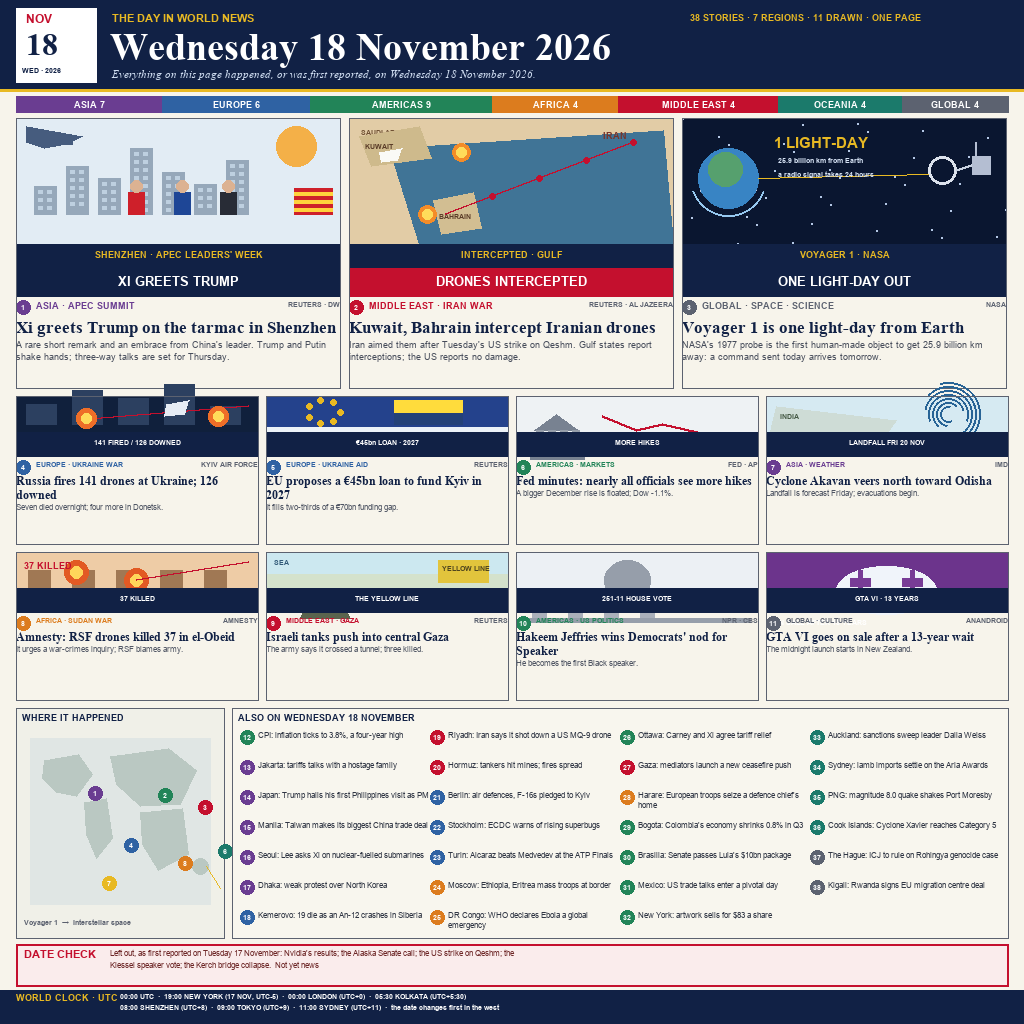
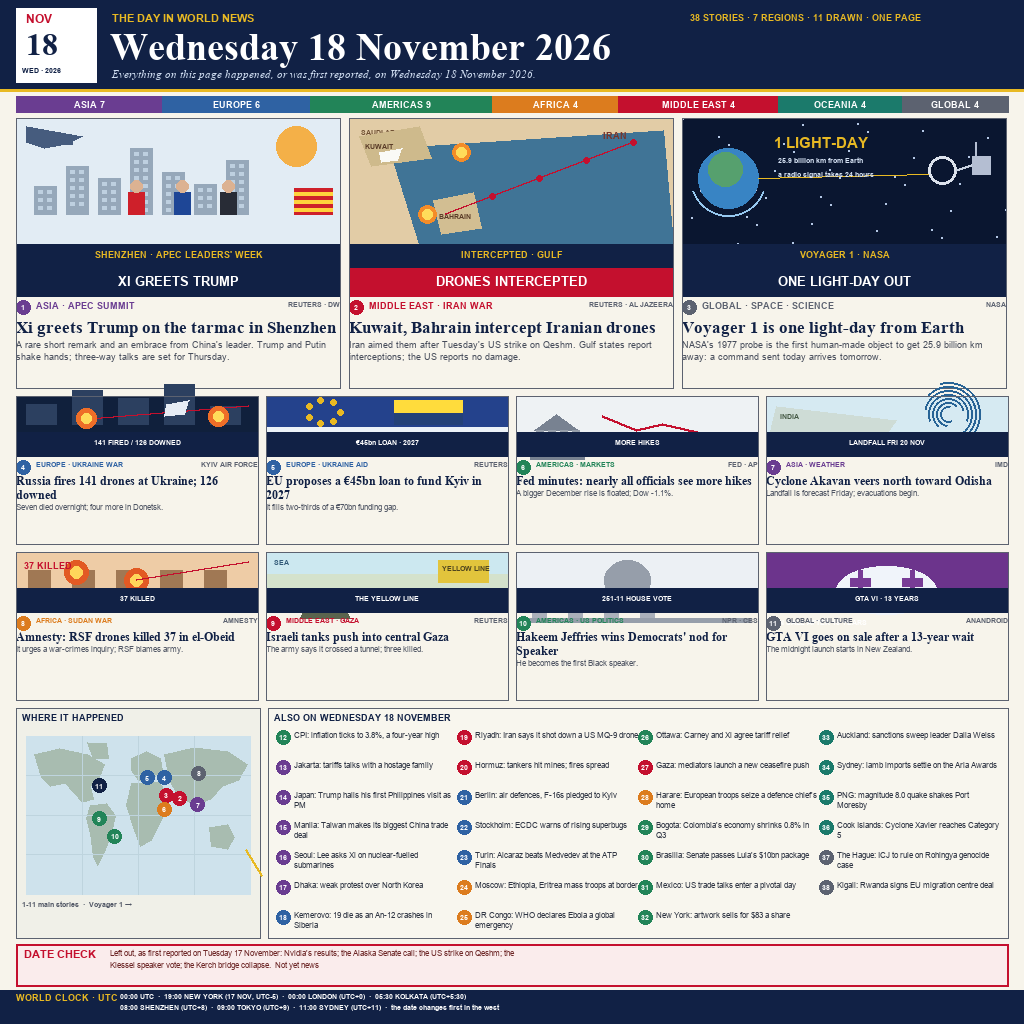
Clarify world map in poster

Changed region(s): [[0.0, 0.6875, 0.9688, 0.9062]]

diff --git a/render.py b/render.py
@@ -289,30 +289,44 @@ for j,(n,reg,tag,src,banner,head,cap,art) in enumerate(CARDS):
 
 # bottom: map + tiny stories
 MY=708
-d.rectangle([16,MY,224,938],fill=(240,240,232),outline=GRAY,width=1)
+d.rectangle([16,MY,260,938],fill=(240,240,232),outline=GRAY,width=1)
 txt(d,22,MY+4,"WHERE IT HAPPENED",F_SM,NAVY)
-# simplified world map
-d.rectangle([30,MY+30,210,MY+196],fill=(224,230,228))
-# continents as blobs
-d.polygon([(44,MY+52),(78,MY+46),(92,MY+66),(76,MY+88),(56,MY+84),(42,MY+70)],fill=(186,200,194))
-d.polygon([(84,MY+94),(106,MY+90),(112,MY+130),(96,MY+150),(86,MY+126)],fill=(186,200,194))
-d.polygon([(110,MY+48),(168,MY+40),(196,MY+62),(180,MY+96),(140,MY+98),(116,MY+76)],fill=(186,200,194))
-d.polygon([(140,MY+104),(182,MY+100),(188,MY+146),(158,MY+162),(142,MY+136)],fill=(186,200,194))
-d.ellipse([192,MY+150,208,MY+166],fill=(186,200,194))
-pts=[(60,60,GLOBAL if False else PURPLE,1),(96,112,BLUE,4),(130,62,GREEN,2),
-     (150,130,ORANGE,8),(170,74,RED,3),(190,118,TEAL,6),(74,150,GOLD,7)]
-for px,py,col,n in pts: badge(d,28+px,MY+18+py,n,col)
-d.line([(206,MY+158),(220,MY+180)],fill=GOLD,width=1)
-txt(d,24,MY+210,"Voyager 1  →  Interstellar space",F_MICRO,(90,96,110))
+# recognisable equirectangular world map
+MX,MY0,MW,MH = 26, MY+28, 224, 158
+d.rectangle([MX,MY0,MX+MW,MY0+MH],fill=(206,226,236))
+def mp(px,py): return (MX+px*1.12, MY0+py*1.58)
+continents=[
+ [(8,12),(30,8),(55,12),(70,18),(65,28),(58,32),(60,40),(50,42),(42,36),(35,30),(22,32),(14,26)],
+ [(58,44),(72,43),(80,50),(76,62),(70,74),(64,82),(60,76),(58,62),(54,52)],
+ [(55,4),(72,5),(74,14),(60,15)],
+ [(94,14),(108,10),(120,14),(122,22),(112,28),(100,28),(94,22)],
+ [(94,30),(118,29),(128,38),(122,52),(112,66),(102,70),(96,58),(90,44)],
+ [(124,12),(150,7),(180,10),(198,18),(190,28),(175,32),(165,40),(150,44),(136,38),(128,28)],
+ [(164,58),(180,56),(186,64),(180,72),(166,70)],
+]
+for poly in continents:
+    d.polygon([mp(px,py) for px,py in poly],fill=(168,188,176))
+# graticule
+for gx in range(50,200,50):
+    a=mp(gx,0); b=mp(gx,100); d.line([a,b],fill=(190,212,222),width=1)
+for gy in range(25,100,25):
+    a=mp(0,gy); b=mp(200,gy); d.line([a,b],fill=(190,212,222),width=1)
+pts=[(59,27,NAVY,1),(131,35,RED,2),(119,33,RED,3),(117,22,BLUE,4),
+     (102,22,BLUE,5),(117,42,ORANGE,6),(147,39,PURPLE,7),(148,19,GRAY,8),
+     (59,48,GREEN,9),(73,59,GREEN,10),(59,27,NAVY,11)]
+for px,py,col,n in pts:
+    x,y=mp(px,py); badge(d,x,y,n,col)
+d.line([mp(196,72),mp(210,88)],fill=GOLD,width=2)
+txt(d,22,MY+192,"1-11 main stories  ·  Voyager 1 →",F_MICRO,(80,86,100))
 
-d.rectangle([232,MY,1008,938],fill=(248,246,238),outline=GRAY,width=1)
-txt(d,238,MY+4,"ALSO ON WEDNESDAY 18 NOVEMBER",F_SM,NAVY)
+d.rectangle([268,MY,1008,938],fill=(248,246,238),outline=GRAY,width=1)
+txt(d,274,MY+4,"ALSO ON WEDNESDAY 18 NOVEMBER",F_SM,NAVY)
 cols=4; per=7
-cw=(776-16)//4
+cw=(740-16)//4
 for k,(n,reg,head) in enumerate(TINY):
     c=k//per; r=k%per
     if c>=cols: break
-    x=240+c*cw; y=MY+22+r*30
+    x=276+c*cw; y=MY+22+r*30
     badge(d,x,y,n,REGCOL[reg])
     for li,ln in enumerate(wrap(head,F_TINY,cw-18,d)[:2]):
         txt(d,x+18,y+li*10,ln,F_TINY,(48,54,68))
